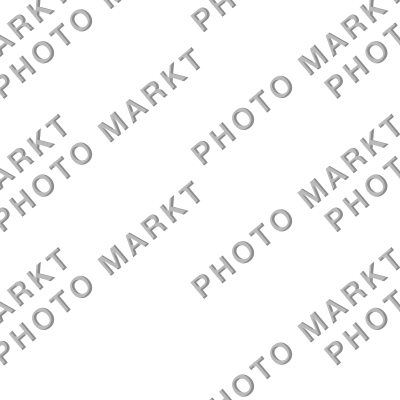
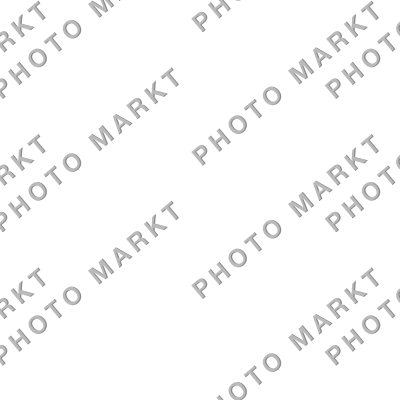
fix(watermark): adjust font size, letter spacing, and shadow offset in default configuration feat(gallery): add keys to gallery components for improved rendering

diff --git a/components/event-gallery-with-face-search.tsx b/components/event-gallery-with-face-search.tsx
@@ -99,6 +99,7 @@ export function EventGalleryWithFaceSearch({
       <div className="flex flex-col gap-4">
         {aiSearchEligible && matches === null ? (
           <AIFindPhotosBanner
+            key="ai-find-photos-banner"
             state={aiState}
             labels={bannerLabels}
             onOpenSearch={() => setModalOpen(true)}
@@ -106,6 +107,7 @@ export function EventGalleryWithFaceSearch({
         ) : null}
         {fullGallery}
         <FaceSearchModal
+          key="face-search-modal"
           open={modalOpen}
           onOpenChange={setModalOpen}
           shareCode={shareCode}

diff --git a/lib/watermark-tile.ts b/lib/watermark-tile.ts
@@ -45,14 +45,14 @@ export interface WatermarkTileConfig {
 export const DEFAULT_WATERMARK_TILE_CONFIG: WatermarkTileConfig = {
   text: 'PHOTO MARKT',
   tileSize: 400,
-  fontSize: 30,
+  fontSize: 25,
   angleDeg: -40,
   opacity: 0.4,
   color: '#ffffff',
   rows: 6,
-  letterSpacing: 4,
+  letterSpacing: 5,
   fontFamily: 'Helvetica Neue, Helvetica, Arial, sans-serif',
-  shadow: { color: '#000000', opacity: 0.45, offsetX: 1.8, offsetY: 1.8 },
+  shadow: { color: '#000000', opacity: 0.45, offsetX: 1, offsetY: 1 },
 };
 
 /** Escape the five XML metacharacters so arbitrary text can't break the SVG. */

diff --git a/app/[lang]/events/[shareCode]/page.tsx b/app/[lang]/events/[shareCode]/page.tsx
@@ -568,6 +568,7 @@ export default async function EventPage({
               modalLabels={dict.aiSearch.modal}
               fullGallery={
                 <Suspense
+                  key="event-gallery"
                   fallback={
                     <div className="grid grid-cols-2 sm:grid-cols-3 md:grid-cols-4 gap-4">
                       {Array.from({ length: 12 }).map((_, i) => (
